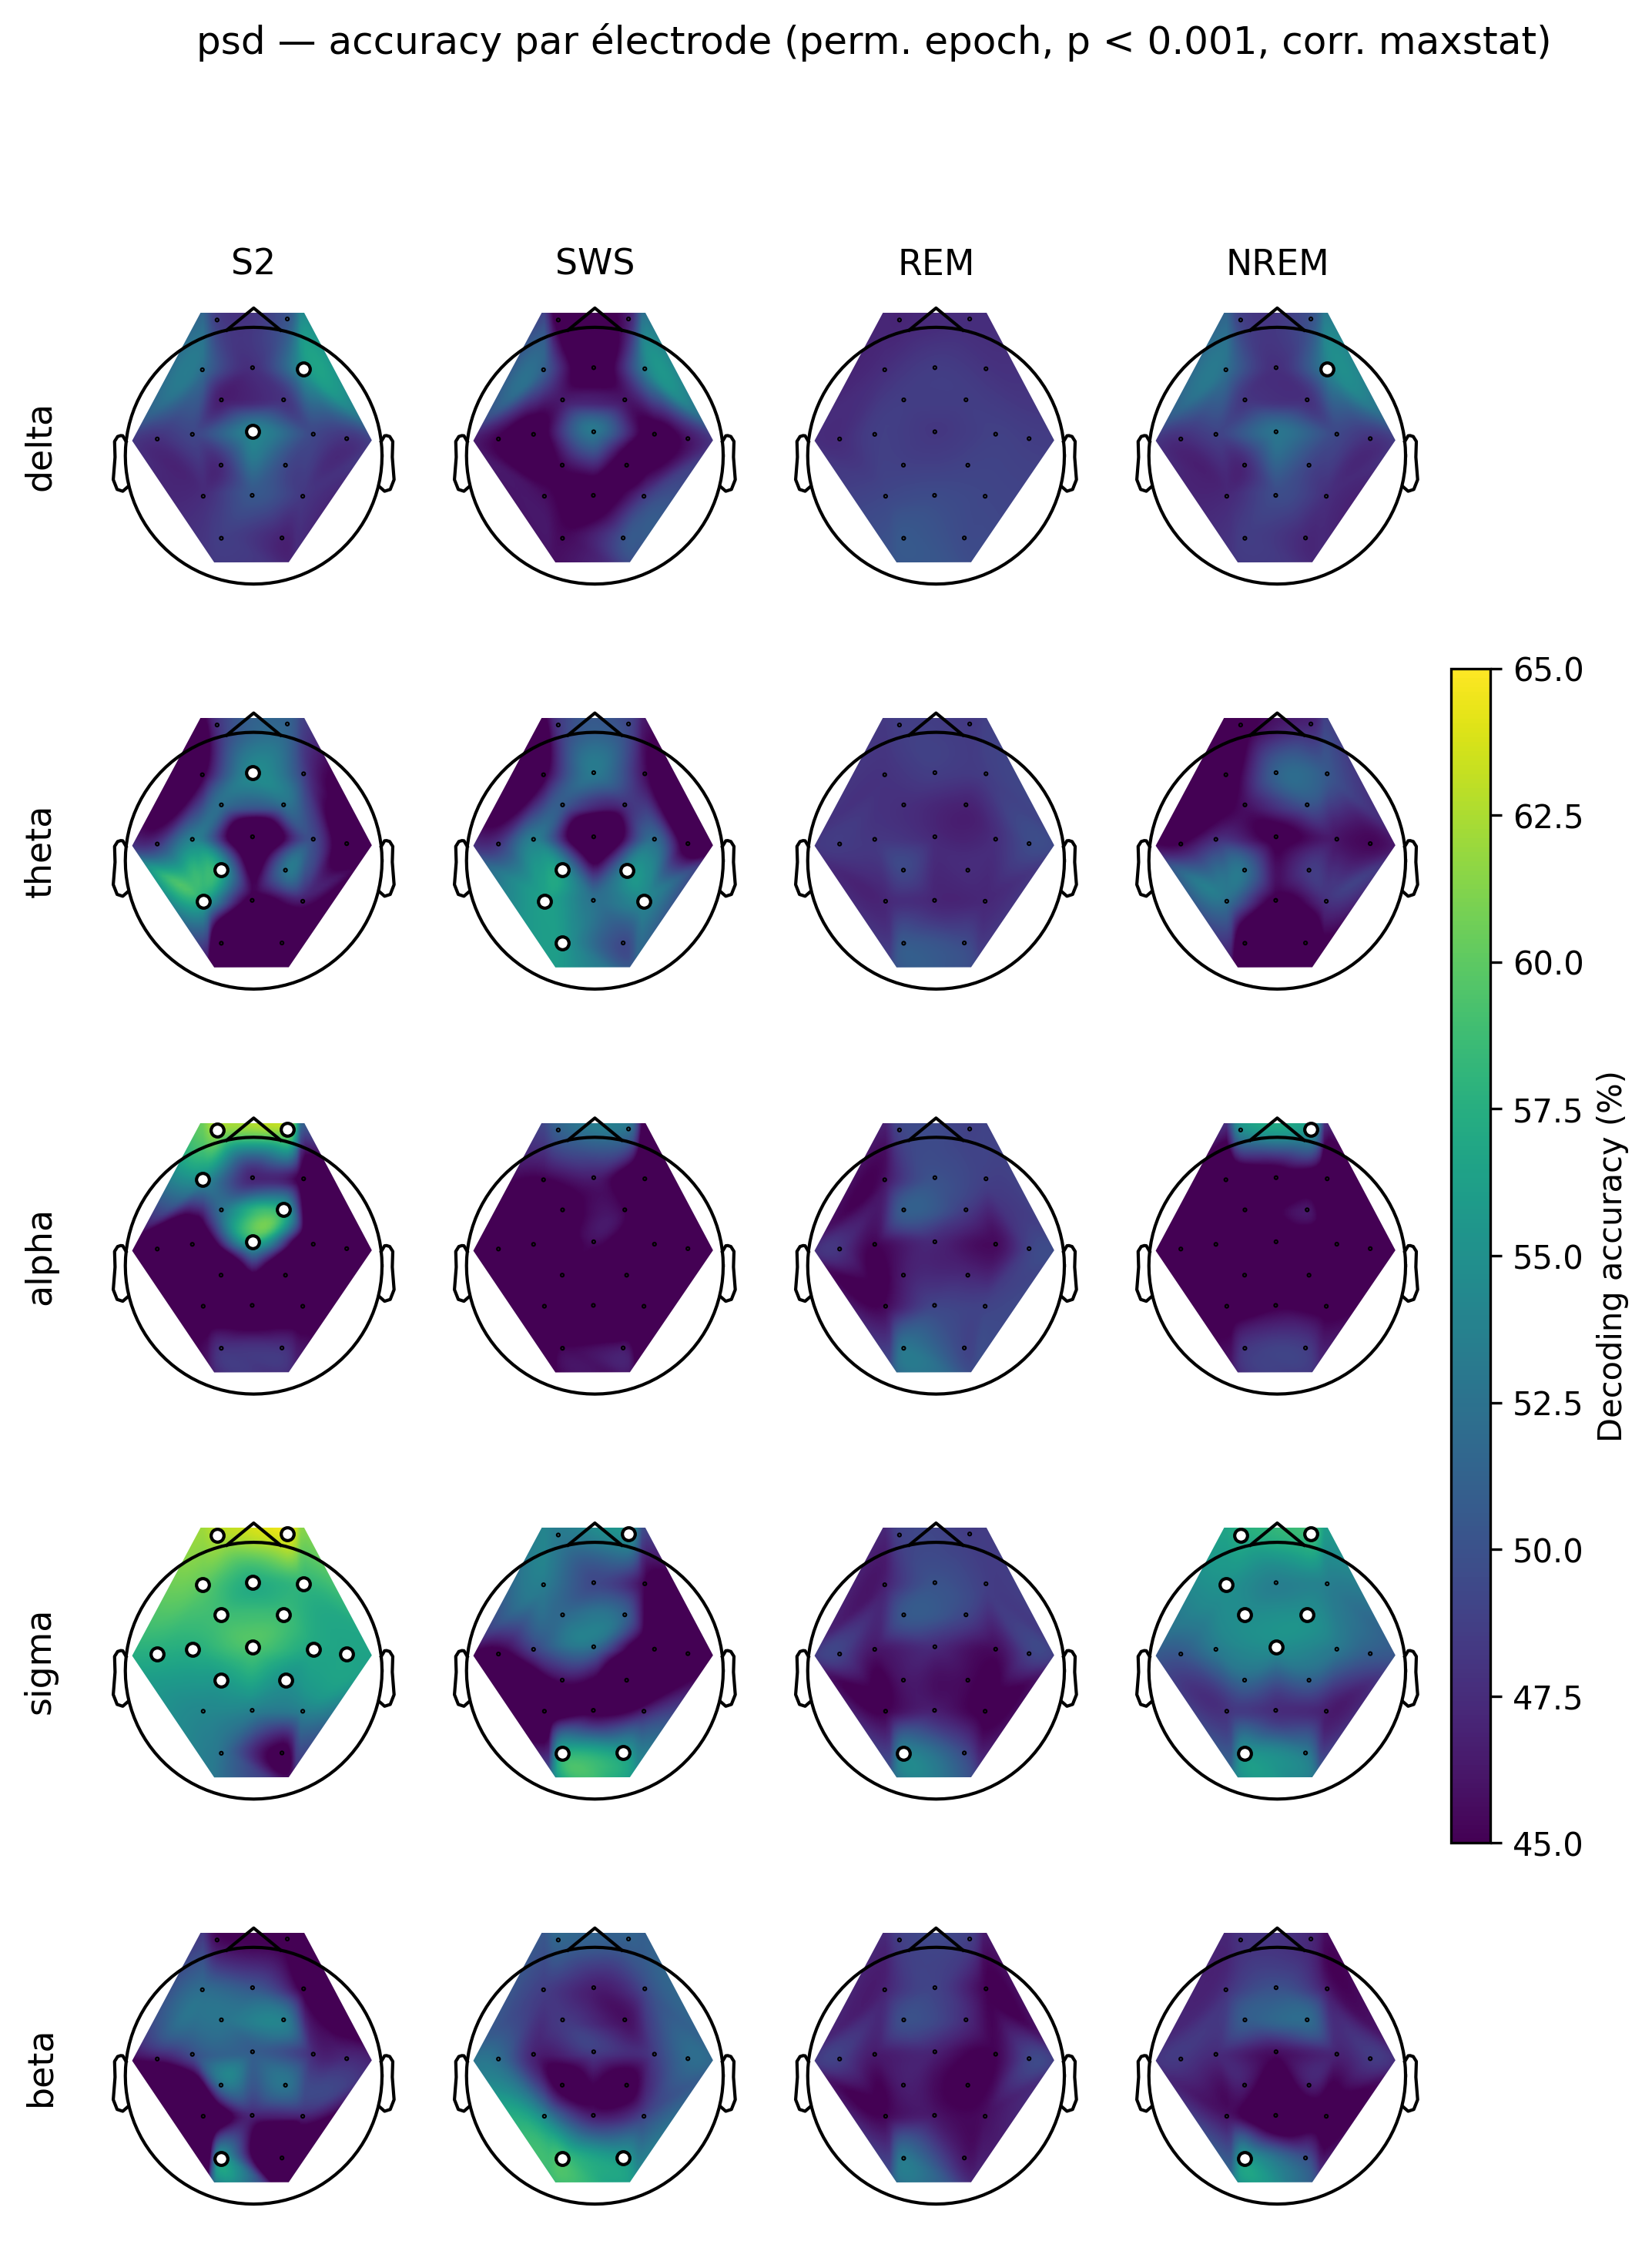
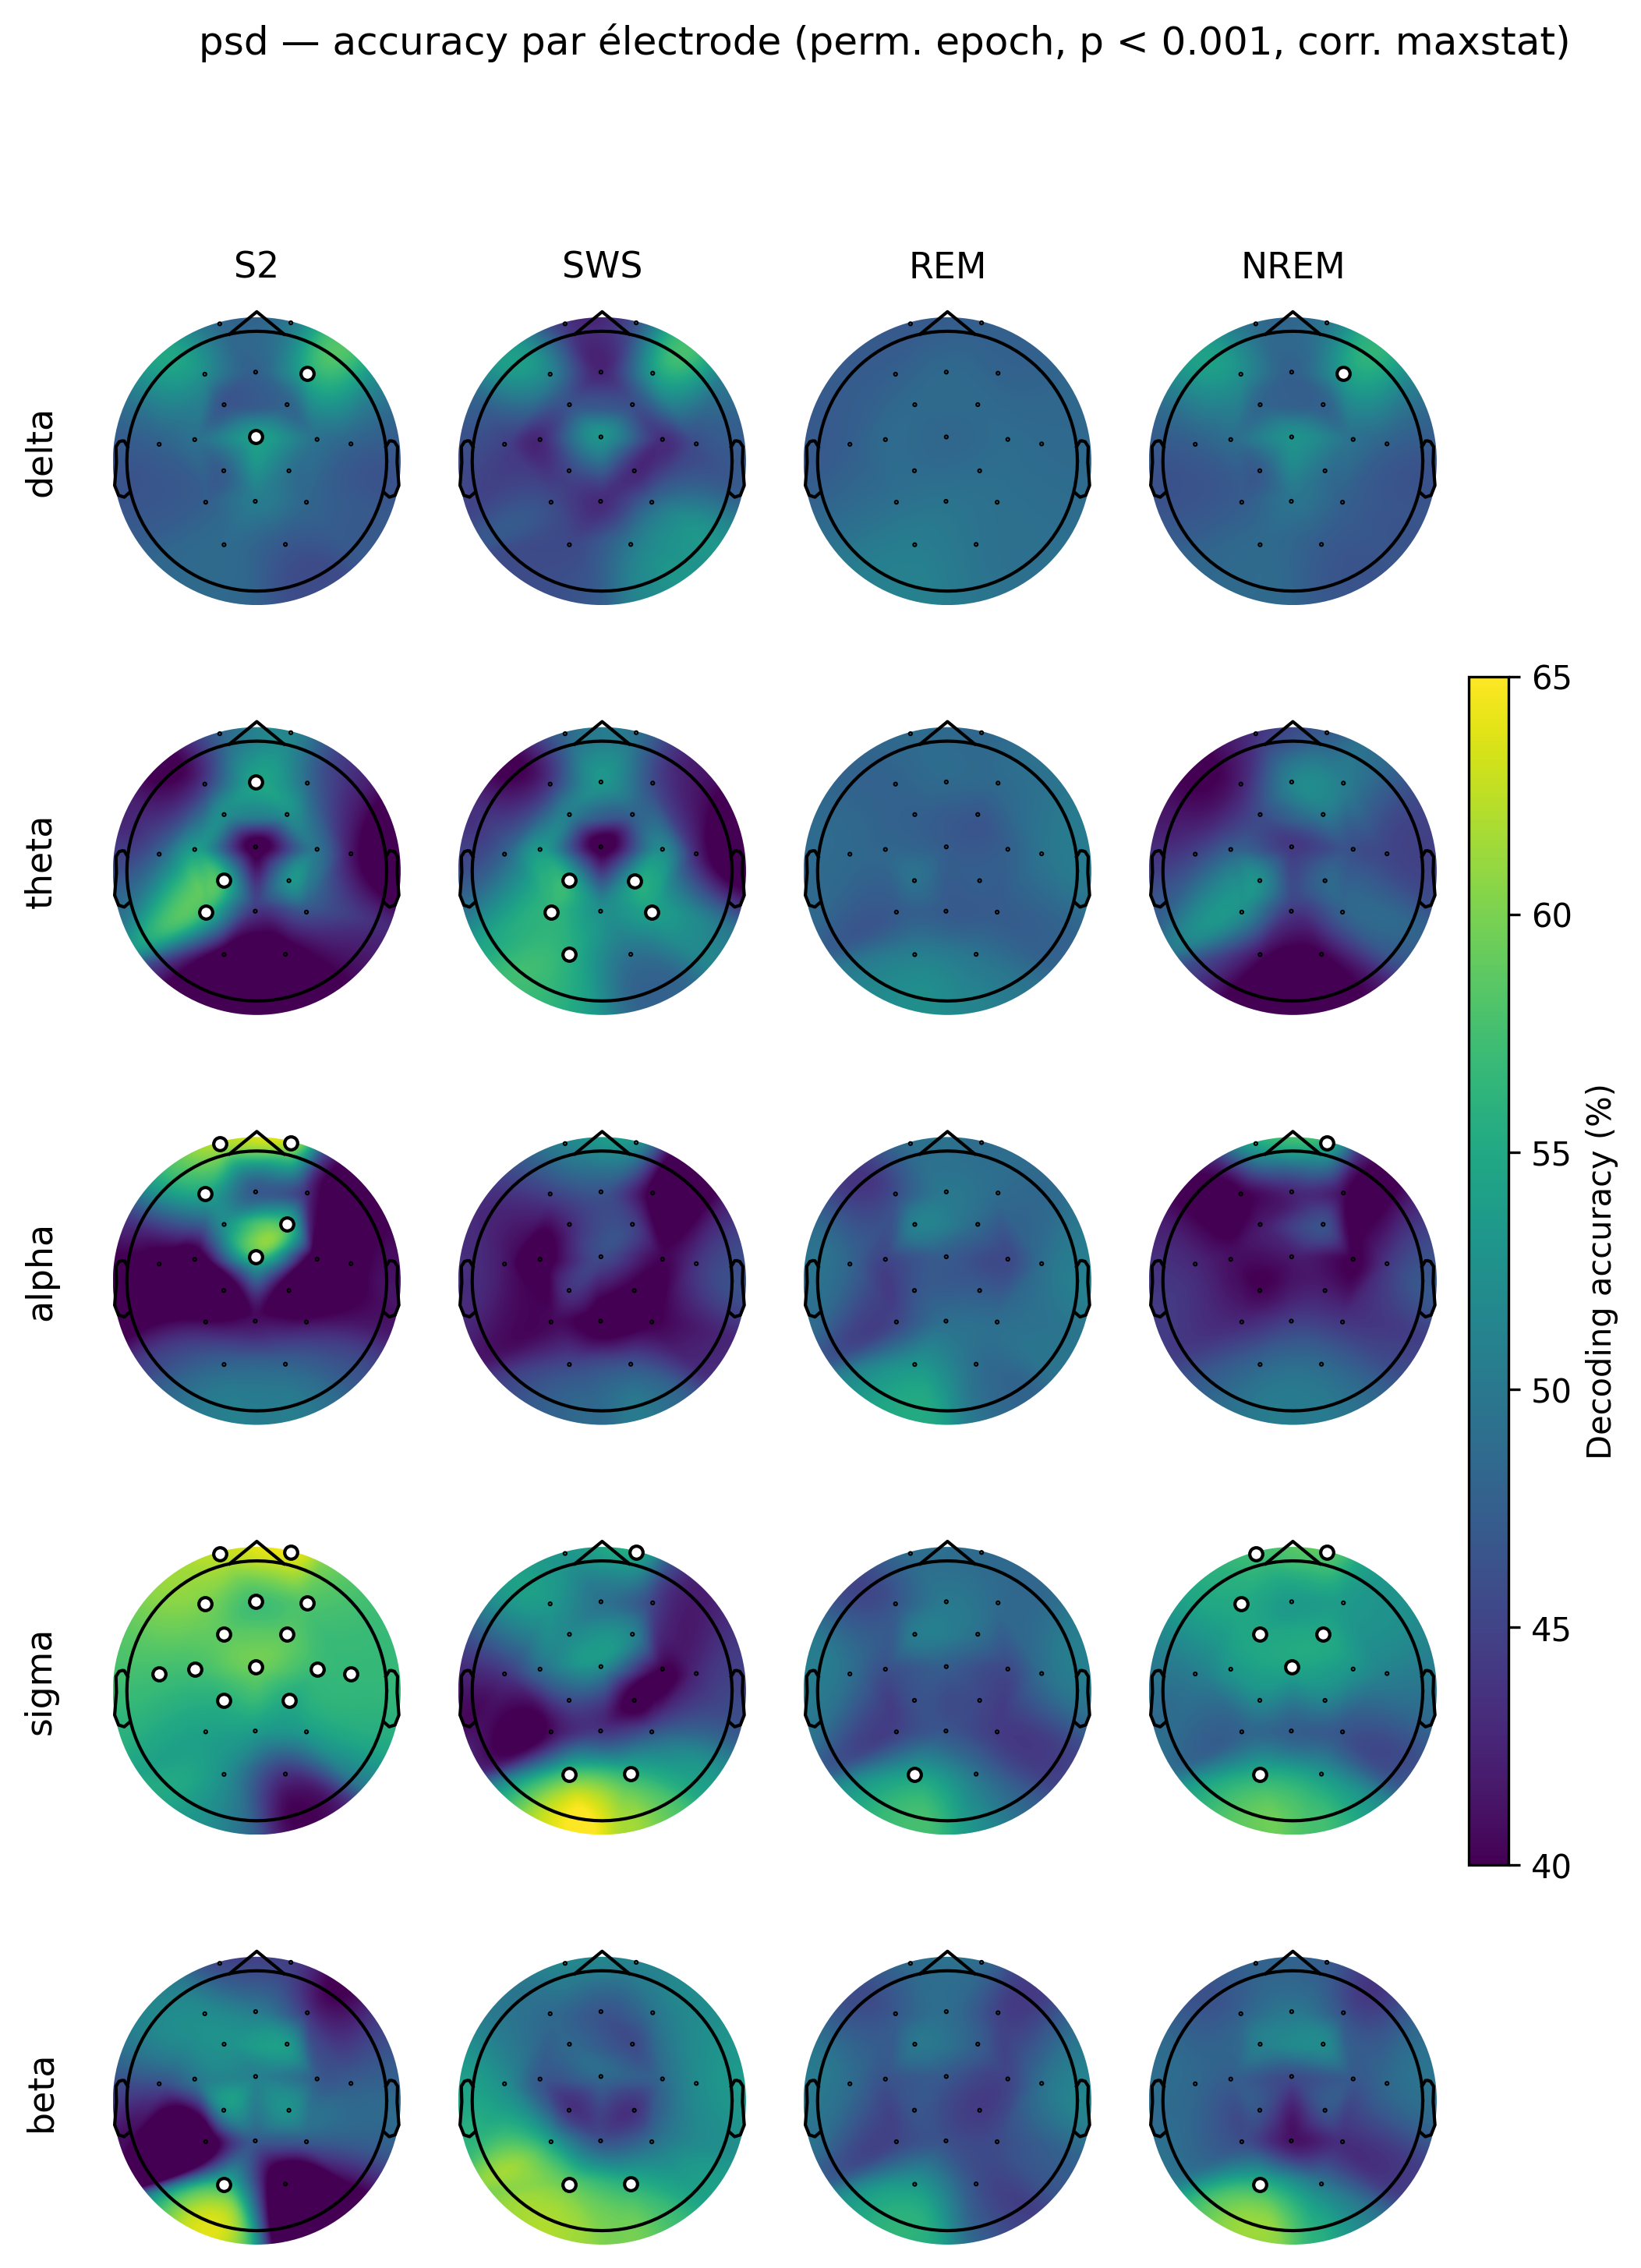
m

diff --git a/plot_topomap_psd.py b/plot_topomap_psd.py
@@ -172,7 +172,7 @@ def main() -> None:
                 vlim=(vmin, vmax), mask=mask,
                 mask_params=dict(marker="o", markerfacecolor="w",
                                  markeredgecolor="k", markersize=4),
-                contours=0, extrapolate="local", sphere=0.095,
+                contours=0, extrapolate="head", sphere=0.095,
             )
             if r == 0:
                 ax.set_title(state, fontsize=11)